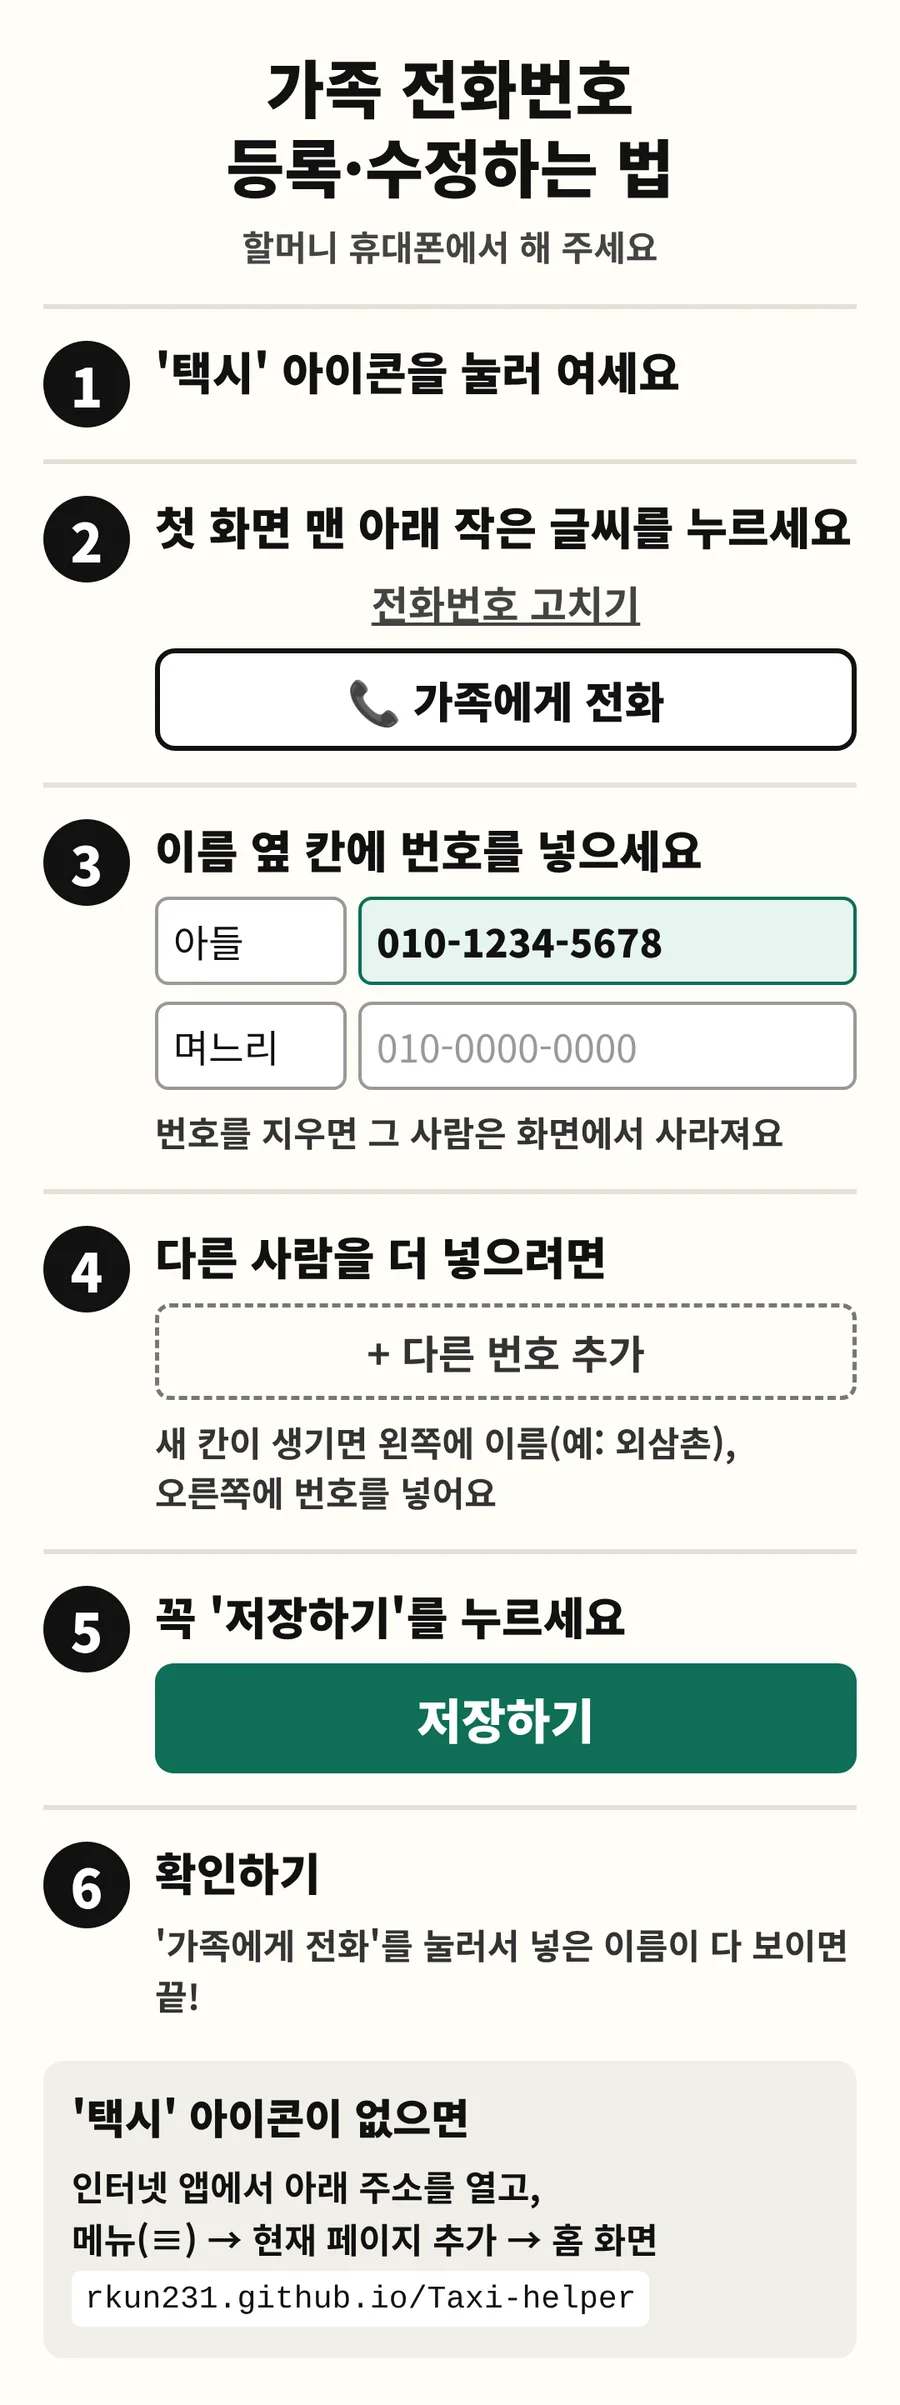
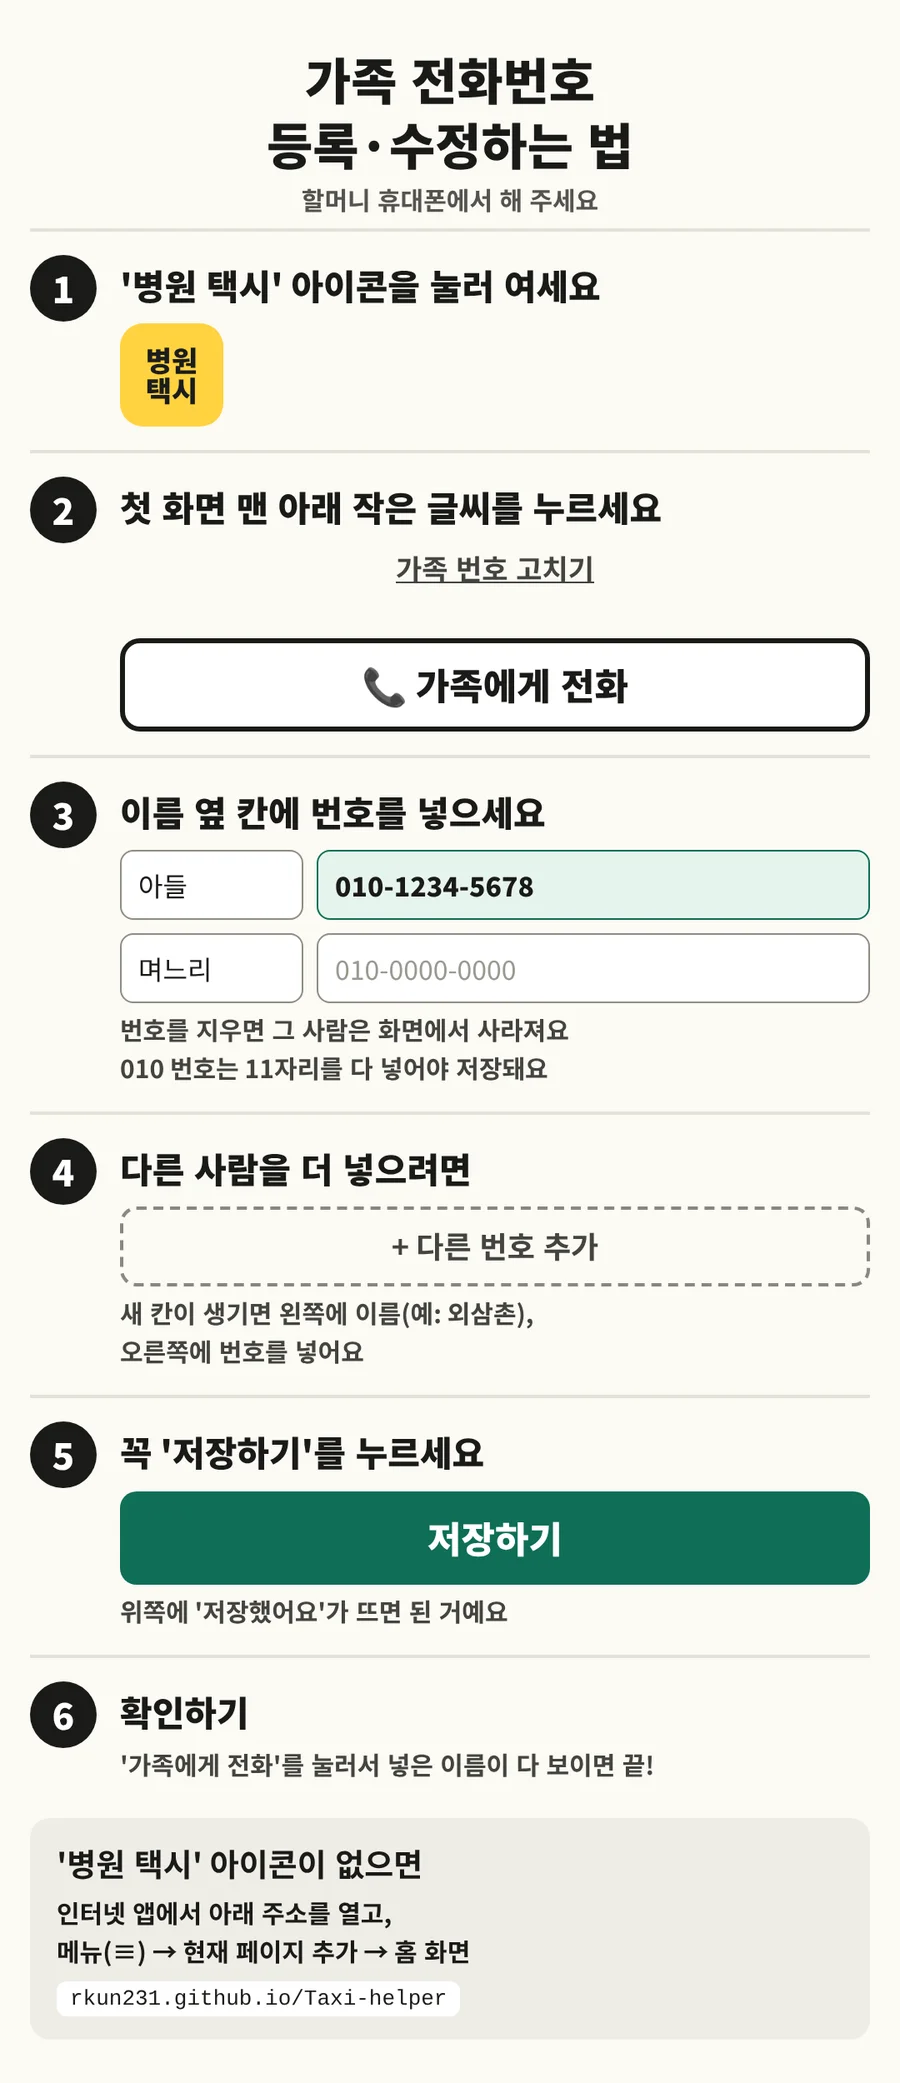
체험 휴대폰·설명서를 실제 앱(11/6 수정)과 맞춤: 가족 번호 고치기, 간격, 010 자리 수 확인, 112·119 허용, 저장했어요, 번호 없을 때 안내, 노란 아이콘 설명서
Claude-Session: https://claude.ai/code/session_01BSA7JXKVqZpWhd61oR99ne

Changed region(s): [[0.0311, 0.0, 0.9644, 0.9674], [0.84, 0.5305, 0.9644, 0.5929]]

diff --git a/assets/phone.js b/assets/phone.js
@@ -7,8 +7,12 @@
   const START_HINT = "'병원 갈 때'는 전남 센터, '집에 올 때'는 광주 센터로 연결돼요. 첫 화면에서 '뒤로'도 눌러 보세요.";
   const esc = s => String(s).replace(/[&<>"']/g, c => ({ "&": "&amp;", "<": "&lt;", ">": "&gt;", '"': "&quot;", "'": "&#39;" }[c]));
   const digits = s => String(s || "").replace(/\D/g, "");
+  /* 실제 앱과 같은 번호 확인: 010은 11자리, 112·119·1339 같은 1로 시작하는 3~4자리 허용, 그 밖에 7자리 미만은 막음 */
+  const usable = n => { const d = digits(n); return d.length >= 7 || (/^1/.test(d) && d.length >= 3 && d.length <= 4); };
+  const badNumber = n => { const d = digits(n); if (!d) return ""; if (d.startsWith("010") && d.length !== 11) return "자리 수가 맞지 않아요"; return usable(d) ? "" : "너무 짧아요"; };
   function fmt(n) {
     const d = digits(n);
+    if (/^1/.test(d) && d.length <= 4) return d;
     if (d.length === 8 && /^1[5-9]/.test(d)) return d.slice(0, 4) + "-" + d.slice(4);
     if (d.length <= 3) return d;
     if (d.length <= 7) return d.slice(0, 3) + "-" + d.slice(3);
@@ -24,7 +28,7 @@
         <button class="big go" type="button" data-call="go"><span class="ico">🏥</span><span class="t">병원 갈 때</span><span class="r">집에서 병원으로 가요</span></button>
         <button class="big home" type="button" data-call="home"><span class="ico">🏠</span><span class="t">집에 올 때</span><span class="r">병원에서 집으로 와요</span></button>
         <div class="bottom">
-          <button class="fix" type="button" data-a="fix">전화번호 고치기</button>
+          <button class="fix" type="button" data-a="fix">가족 번호 고치기</button>
           <button class="fam" type="button" data-a="family">📞 가족에게 전화</button>
         </div>
       </div>
@@ -48,10 +52,12 @@
         <p class="small">번호는 이 휴대폰 안에만 저장됩니다. 비워둔 사람은 화면에 나오지 않아요.</p>
         <div class="rows" data-r="rows"></div>
         <button class="add" type="button" data-a="row">+ 다른 번호 추가</button>
+        <div class="err" data-r="sErr"></div>
         <button class="save" type="button" data-a="setupSave">저장하기</button>
         <button class="cancel" type="button" data-a="home">취소</button>
       </div>
       <div class="ph-toast" data-r="toast" hidden>한 번 더 누르면<br>앱이 닫혀요</div>
+      <div class="ph-toast" data-r="saved" hidden>저장했어요</div>
       <div class="ph-calling" data-r="calling" hidden>
         <div class="demo">전화 앱으로 넘어간 장면</div>
         <div class="who" data-r="cWho"></div>
@@ -76,11 +82,11 @@
     host.classList.add("phone-wrap");
     host.innerHTML = MARKUP;
     const r = name => host.querySelector(`[data-r="${name}"]`);
-    let family, onSub = false, armed = false, timer = null;
+    let family, onSub = false, armed = false, timer = null, savedTimer = null;
 
     const hint = t => { r("hint").textContent = t; };
     const render = s => host.querySelectorAll(".ph").forEach(p => p.classList.toggle("on", p.dataset.s === s));
-    const go = s => { onSub = s !== "main"; render(s); };
+    const go = s => { onSub = s !== "main"; if (s !== "main") r("saved").hidden = true; render(s); };
     const home = () => go("main");
 
     function call(who, num, isFamily) {
@@ -89,16 +95,16 @@
       r("calling").hidden = false;
     }
     function openFamily() {
-      const list = family.filter(f => digits(f.phone).length >= 7);
+      const list = family.filter(f => usable(f.phone));
       r("famList").innerHTML = list.length
         ? list.map(f => `<button class="fam" type="button" data-i="${family.indexOf(f)}">📞 ${esc(f.label)}</button>`).join("")
-        : `<div class="empty">아직 등록된 번호가 없어요.</div>`;
+        : `<div class="empty">아직 등록된 번호가 없어요.<br>가족에게 번호를 넣어 달라고 하세요.</div>`;
       go("family");
       hint("'처음으로' 버튼이 없어요. 이름을 누르면 전화가 걸리고, 그냥 나가려면 '뒤로'를 누르세요.");
     }
     const rowHtml = f => `<div class="pair"><input type="text" class="fl" value="${esc(f.label)}" aria-label="호칭"><input type="tel" class="fp" inputmode="tel" value="${esc(fmt(f.phone))}" placeholder="010-0000-0000" aria-label="번호"></div>`;
     function openSetup() {
-      r("rows").innerHTML = family.map(rowHtml).join(""); go("setup");
+      r("rows").innerHTML = family.map(rowHtml).join(""); r("sErr").textContent = ""; go("setup");
       hint("이 화면은 가족이 써요. 숫자만 쳐도 '-'가 자동으로 붙어요.");
     }
     function back() {
@@ -122,7 +128,7 @@
     }
     function reset() {
       clearTimeout(timer); armed = false;
-      ["toast", "calling", "closed"].forEach(n => { r(n).hidden = true; });
+      ["toast", "saved", "calling", "closed"].forEach(n => { r(n).hidden = true; });
       family = DEFAULT.map(([label, phone]) => ({ label, phone }));
       home(); hint(START_HINT);
     }
@@ -143,7 +149,9 @@
         case "add": r("aLabel").value = ""; r("aPhone").value = ""; r("aErr").textContent = ""; go("add"); break;
         case "addSave": {
           const label = r("aLabel").value.trim(), phone = digits(r("aPhone").value);
-          if (!label || phone.length < 7) { r("aErr").textContent = "이름과 전화번호를 모두 넣어 주세요."; break; }
+          if (!label || !phone) { r("aErr").textContent = "이름과 전화번호를 모두 넣어 주세요."; break; }
+          const bad = badNumber(phone);
+          if (bad) { r("aErr").textContent = `번호가 ${bad}. 다시 확인해 주세요.`; hint("010 번호는 11자리여야 해요. 112·119처럼 짧은 긴급 번호는 넣을 수 있어요."); break; }
           const slot = family.find(f => f.label === label && !digits(f.phone));
           if (slot) slot.phone = phone; else family.push({ label, phone });
           openFamily(); break;
@@ -151,9 +159,13 @@
         case "row": r("rows").insertAdjacentHTML("beforeend", rowHtml({ label: "", phone: "" })); break;
         case "setupSave": {
           const ls = [...host.querySelectorAll(".fl")], ps = [...host.querySelectorAll(".fp")];
+          const bi = ps.findIndex(p => badNumber(p.value));
+          if (bi >= 0) { r("sErr").textContent = `'${ls[bi].value.trim() || "가족"}' 번호가 ${badNumber(ps[bi].value)}. 다시 확인해 주세요.`; ps[bi].focus();
+            hint("번호를 잘못 넣으면 어느 칸인지 알려 주고 저장을 멈춰요."); break; }
           family = ls.map((l, i) => ({ label: l.value.trim() || "가족", phone: digits(ps[i].value) }))
-            .filter((f, i) => i < DEFAULT.length || digits(f.phone).length >= 7);
-          home(); hint("저장하면 바로 첫 화면이에요. 앱을 켤 때 설정을 먼저 보여 주지 않아요."); break;
+            .filter((f, i) => i < DEFAULT.length || usable(f.phone));
+          home(); r("saved").hidden = false; clearTimeout(savedTimer); savedTimer = setTimeout(() => { r("saved").hidden = true; }, 2000);
+          hint("저장하면 '저장했어요'가 뜨고 바로 첫 화면이에요. 앱을 켤 때 설정을 먼저 보여 주지 않아요."); break;
         }
         case "home": home(); break;
         case "hang": hang(); break;
@@ -167,7 +179,7 @@
     const flash = el => { el.classList.remove("flash"); void el.offsetWidth; el.classList.add("flash"); };
     function show(action) {
       reset();
-      if (action === "fix") { flash(host.querySelector(".fix")); hint("밑줄 친 '전화번호 고치기'를 눌러 보세요. 예전에는 인사말을 3초 꾹 눌러야 열렸어요."); }
+      if (action === "fix") { flash(host.querySelector(".fix")); hint("밑줄 친 '가족 번호 고치기'를 눌러 보세요. 예전에는 인사말을 3초 꾹 눌러야 열렸어요."); }
       if (action === "family") { openFamily(); flash(r("famList")); }
       if (action === "buttons") { flash(r("screen")); hint("버튼을 누르면 확인 화면 없이 바로 전화 앱으로 넘어가요."); }
       if (action === "labels") { flash(host.querySelector(".big.go")); hint("지명 대신 '집에서 병원으로 가요'처럼 갈 곳을 적었어요."); }

diff --git a/index.html b/index.html
@@ -202,8 +202,8 @@
           <p>쓰는 사람(할머니)과 번호를 관리하는 사람(가족)이 달라서, 설명서도 두 가지로 만들었습니다.</p>
         </div>
         <div class="guides thumbs">
-          <a href="recap.html#privacy"><figure><div class="img-box"><img src="assets/guide-grandma.webp" alt="할머니용 설명서 미리보기" width="900" height="1812" loading="lazy"></div><figcaption>할머니용</figcaption></figure></a>
-          <a href="recap.html#privacy"><figure><div class="img-box"><img src="assets/guide-family.webp" alt="가족용 설명서 미리보기" width="900" height="2405" loading="lazy"></div><figcaption>가족용</figcaption></figure></a>
+          <a href="recap.html#privacy"><figure><div class="img-box"><img src="assets/guide-grandma.webp" alt="할머니용 설명서 미리보기" width="900" height="1453" loading="lazy"></div><figcaption>할머니용</figcaption></figure></a>
+          <a href="recap.html#privacy"><figure><div class="img-box"><img src="assets/guide-family.webp" alt="가족용 설명서 미리보기" width="900" height="2083" loading="lazy"></div><figcaption>가족용</figcaption></figure></a>
           <p class="note" style="grid-column:1/-1">설명서 원본은 <a href="recap.html#privacy">자세히 보기</a>에서 끝까지 볼 수 있어요.</p>
         </div>
     </div>
@@ -332,7 +332,7 @@
     ["이름·주소를 상담원에게 읽어주는 화면", "삭제", "통화하면서 화면을 보며 읽기 어려워하셨고, 센터는 전화번호로 이름을 이미 압니다.", "grandma", "할머니 관찰", null],
     ["전화 전 확인 화면, 통화 후 '택시 잡으셨어요?'", "버튼 한 번에 바로 전화", "전화번호부나 카카오톡에서 단계가 많으면 헷갈려하시는 걸 여러 번 봤습니다. 그래서 처음부터 넣지 않았습니다.", "me", "본인", "buttons"],
     ["앱을 켜면 가족 번호 설정부터", "첫 화면 고정, 설정은 가족이 나중에", "할머니가 처음 보는 화면이 설정이면 안 됩니다.", "me", "본인", null],
-    ["인사말을 3초 꾹 눌러 설정 열기", "'전화번호 고치기' 글씨", "기능이 숨어 있어 가족들도 설명서를 보지 않는 한 찾기 힘들어했습니다.", "me", "본인", "fix"],
+    ["인사말을 3초 꾹 눌러 설정 열기", "'가족 번호 고치기' 글씨", "기능이 숨어 있어 가족들도 설명서를 보지 않는 한 찾기 힘들어했습니다.", "me", "본인", "fix"],
     ["버튼에 '함평 → 광주' 지명", "\"집에서 병원으로 가요\"", "직관적으로 바로 이해하실 수 있게 바꿨습니다.", "me", "본인", "labels"],
     ["번호를 '-'까지 맞춰 입력", "숫자만 치면 '-' 자동", "가족이 숫자만 쳐도 되게 했습니다.", "me", "본인", "dash"],
     ["가족 화면의 '처음으로' 버튼", "전화를 걸면 자동으로 첫 화면", "10월 25일에 써 보시고 어렵다고 하셔서 바로 없앴습니다.", "grandma", "할머니 말씀", "family"],

diff --git a/recap.html b/recap.html
@@ -189,8 +189,8 @@
     <h3>설명서 원본</h3>
     <p class="note">쓰는 사람(할머니)과 번호를 관리하는 사람(가족)이 달라서 두 가지로 만들었습니다.</p>
     <div class="guides">
-      <figure><div class="img-box"><img src="assets/guide-grandma.webp" alt="할머니용 설명서: 택시 아이콘, 병원 갈 때 초록 버튼, 집에 올 때 주황 버튼, 전화 안 받으면 한 번 더, 모르겠으면 가족에게 전화" width="900" height="1812" loading="lazy"></div><span class="scroll-hint">↕ 그림 안에서 스크롤하면 끝까지 볼 수 있어요</span><figcaption>할머니용 · 큰 글씨 5단계</figcaption></figure>
-      <figure><div class="img-box"><img src="assets/guide-family.webp" alt="가족용 설명서: 전화번호 고치기에서 번호를 넣고 저장하는 방법과 홈 화면에 추가하는 방법" width="900" height="2405" loading="lazy"></div><span class="scroll-hint">↕ 그림 안에서 스크롤하면 끝까지 볼 수 있어요</span><figcaption>가족용 · 번호 등록과 홈 화면 추가</figcaption></figure>
+      <figure><div class="img-box"><img src="assets/guide-grandma.webp" alt="할머니용 설명서: 노란 병원 택시 아이콘, 병원 갈 때 초록 버튼, 집에 올 때 주황 버튼, 전화 안 받으면 한 번 더, 모르겠으면 가족에게 전화" width="900" height="1453" loading="lazy"></div><span class="scroll-hint">↕ 그림 안에서 스크롤하면 끝까지 볼 수 있어요</span><figcaption>할머니용 · 큰 글씨 5단계</figcaption></figure>
+      <figure><div class="img-box"><img src="assets/guide-family.webp" alt="가족용 설명서: 가족 번호 고치기에서 번호를 넣고 저장하는 방법과 홈 화면에 추가하는 방법" width="900" height="2083" loading="lazy"></div><span class="scroll-hint">↕ 그림 안에서 스크롤하면 끝까지 볼 수 있어요</span><figcaption>가족용 · 번호 등록과 홈 화면 추가</figcaption></figure>
     </div>
   </section>
 

diff --git a/assets/style.css b/assets/style.css
@@ -118,6 +118,7 @@ tr.failed td { background: var(--bad-soft); }
 .screen-area { position: relative; background: var(--ph-bg); color: var(--ph-ink); border-radius: 28px; height: 580px; max-height: 70vh; min-height: 500px; overflow: hidden; font-family: var(--body); line-height: 1.5; }
 .ph { position: absolute; inset: 0; padding: 18px 14px 16px; display: none; flex-direction: column; gap: 12px; overflow-y: auto; }
 .ph.on { display: flex; }
+.ph > * { flex-shrink: 0; }
 .ph .hello { font-size: 22px; font-weight: 700; text-align: center; padding-top: 4px; }
 .ph .big { border: 0; border-radius: 18px; padding: 18px 12px; display: flex; flex-direction: column; align-items: center; gap: 4px; color: #fff; cursor: pointer; font-family: inherit; }
 .ph .big:active, .ph .fam:active { transform: scale(0.98); }
@@ -125,7 +126,7 @@ tr.failed td { background: var(--bad-soft); }
 .ph .big .t { font-size: 29px; font-weight: 800; line-height: 1.2; }
 .ph .big .r { font-size: 16px; }
 .ph .go { background: var(--ph-go); } .ph .home { background: var(--ph-home); }
-.ph .bottom { margin-top: auto; display: flex; flex-direction: column; gap: 8px; }
+.ph .bottom { margin-top: auto; display: flex; flex-direction: column; gap: 26px; }
 .ph .fix { align-self: center; background: none; border: 0; color: var(--ph-muted); text-decoration: underline; font: inherit; font-size: 15px; cursor: pointer; padding: 4px 10px; }
 .ph .fam { background: #fff; border: 3px solid var(--ph-ink); color: var(--ph-ink); border-radius: 14px; padding: 12px; font: inherit; font-size: 21px; font-weight: 800; cursor: pointer; text-align: center; }
 .ph .add { background: none; border: 2px dashed #888780; color: #44443f; border-radius: 12px; padding: 10px; font: inherit; font-size: 16px; cursor: pointer; }
